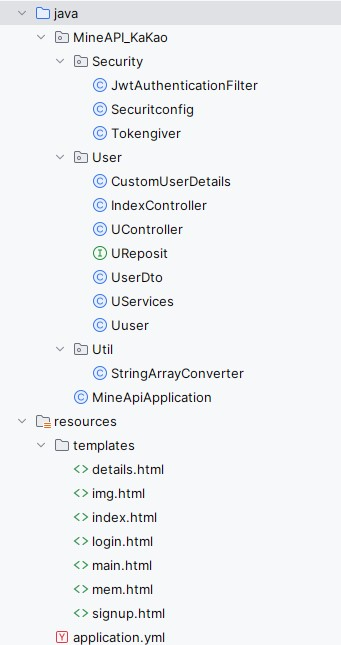
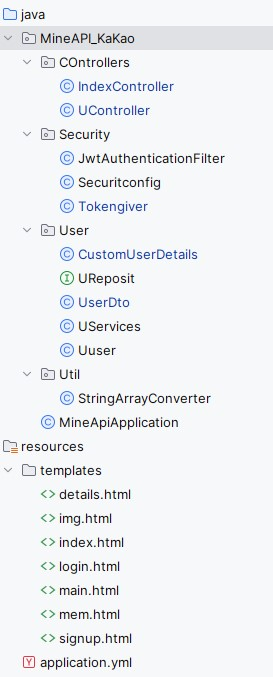
1201
1513

Changed region(s): [[0.0, 0.0, 0.8205, 1.0], [0.0879, 0.5271, 0.1172, 0.5581]]

diff --git a/Mine/src/main/java/MineAPI_KaKao/COntrollers/UController.java b/Mine/src/main/java/MineAPI_KaKao/COntrollers/UController.java
@@ -1,6 +1,9 @@
-package MineAPI_KaKao.User;
+package MineAPI_KaKao.COntrollers;
 
 import MineAPI_KaKao.Security.Tokengiver;
+import MineAPI_KaKao.User.UServices;
+import MineAPI_KaKao.User.UserDto;
+import MineAPI_KaKao.User.Uuser;
 import lombok.RequiredArgsConstructor;
 import org.springframework.http.ResponseEntity;
 import org.springframework.web.bind.annotation.PostMapping;
@@ -12,7 +15,7 @@ import org.springframework.web.bind.annotation.RestController;
 @RequiredArgsConstructor
 public class UController { // -- JSON 데이터를 반환하는 CONTROLLER
 
-    private final UServices UServices; // -- 서비스 호출
+    private final MineAPI_KaKao.User.UServices UServices; // -- 서비스 호출
 
     @PostMapping("/signup") // -- 회원가입
     public ResponseEntity<?> signup(@RequestBody UserDto dto){ // -- 입력된 본문에 포함된 내용을 객체화

diff --git a/Mine/src/main/java/MineAPI_KaKao/User/CustomUserDetails.java b/Mine/src/main/java/MineAPI_KaKao/User/CustomUserDetails.java
@@ -11,11 +11,11 @@ import java.util.stream.Collectors;
 
 @RequiredArgsConstructor
 @Getter
-public class CustomUserDetails implements UserDetails {
+public class CustomUserDetails implements UserDetails { // -- 사용자 정보가 담긴객체
     private final Uuser user;
     
     @Override
-    public Collection<? extends GrantedAuthority> getAuthorities() {
+    public Collection<? extends GrantedAuthority> getAuthorities() { // -- 유저의 권한을 리스트로 가져옴
         return this.user.getRoles().stream()
                 .map(SimpleGrantedAuthority::new)
                 .collect(Collectors.toList());
@@ -24,7 +24,7 @@ public class CustomUserDetails implements UserDetails {
     @Override
     public String getPassword() {
         return this.user.getPass();
-    }
+    } // -- 유저정보 ---
 
     @Override
     public String getUsername() {

diff --git a/Mine/src/main/java/MineAPI_KaKao/Security/Tokengiver.java b/Mine/src/main/java/MineAPI_KaKao/Security/Tokengiver.java
@@ -28,7 +28,7 @@ public class Tokengiver { // -- jwt 발급
                 uuser.getRoles()
         );
 
-        String jwt = JWT.create()
+        String jwt = JWT.create() // -- 유저 객체의 정보가담긴 jwt 생성
                 .withSubject(uuser.getName())
                 .withExpiresAt(new Date(System.currentTimeMillis() + exp))
                 .withClaim("id", uuser.getId())
@@ -51,7 +51,7 @@ public class Tokengiver { // -- jwt 발급
         return decodedJWT;
     }
 
-    private String getUsername(String accessToken) {
+    private String getUsername(String accessToken) { // -- 토큰에서 유저 정보 추출
         return Jwts.parser()
                 .setSigningKey(SECRET)
                 .parseClaimsJws(accessToken)

diff --git a/Mine/src/main/java/MineAPI_KaKao/COntrollers/IndexController.java b/Mine/src/main/java/MineAPI_KaKao/COntrollers/IndexController.java
@@ -1,5 +1,7 @@
-package MineAPI_KaKao.User;
+package MineAPI_KaKao.COntrollers;
 
+import MineAPI_KaKao.User.UServices;
+import MineAPI_KaKao.User.Uuser;
 import lombok.RequiredArgsConstructor;
 import org.springframework.stereotype.Controller;
 import org.springframework.ui.Model;
@@ -16,7 +18,7 @@ import java.util.List;
 @RequiredArgsConstructor
 public class IndexController { // -- HTML 전환 위주의 Controller
 
-    private final UServices UServices;
+    private final MineAPI_KaKao.User.UServices UServices;
 
     @GetMapping("/")
     public String main(){

diff --git a/Mine/src/main/java/MineAPI_KaKao/User/UserDto.java b/Mine/src/main/java/MineAPI_KaKao/User/UserDto.java
@@ -6,7 +6,7 @@ import javax.validation.constraints.NotEmpty;
 import java.util.Collections;
 
 @Data
-public class UserDto {
+public class UserDto { // --  데이터 전송 객체
 
         @NotEmpty // == NOT NULL
         private int id;

diff --git a/README.md b/README.md
@@ -12,7 +12,8 @@
 - InteliJ -- Java11
 - H2 database
 
-H2데이터 베이스에 데이터를 추가하고 불러오는 기능이 구현된 프로젝트입니다.
+H2데이터 베이스에 데이터를 추가하고 불러오는 기능이 구현된 프로젝트입니다. 스프링 시큐리티와 RestFul API를 구현하려 했으나 잘 안됬습니다.
+아무튼 회원가입과 로그인이 되긴합니다.
 
 
 
